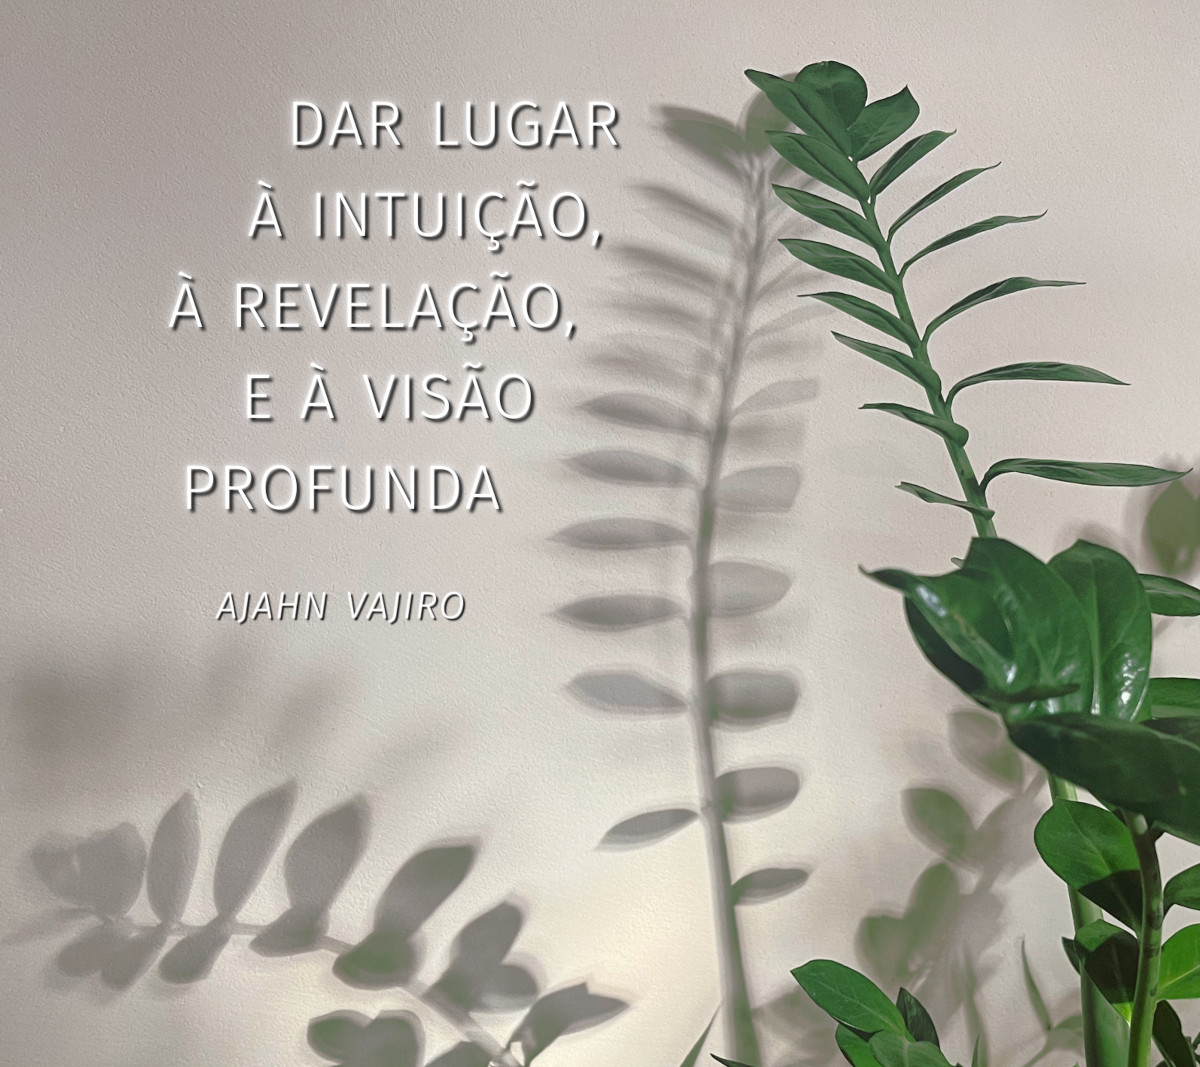
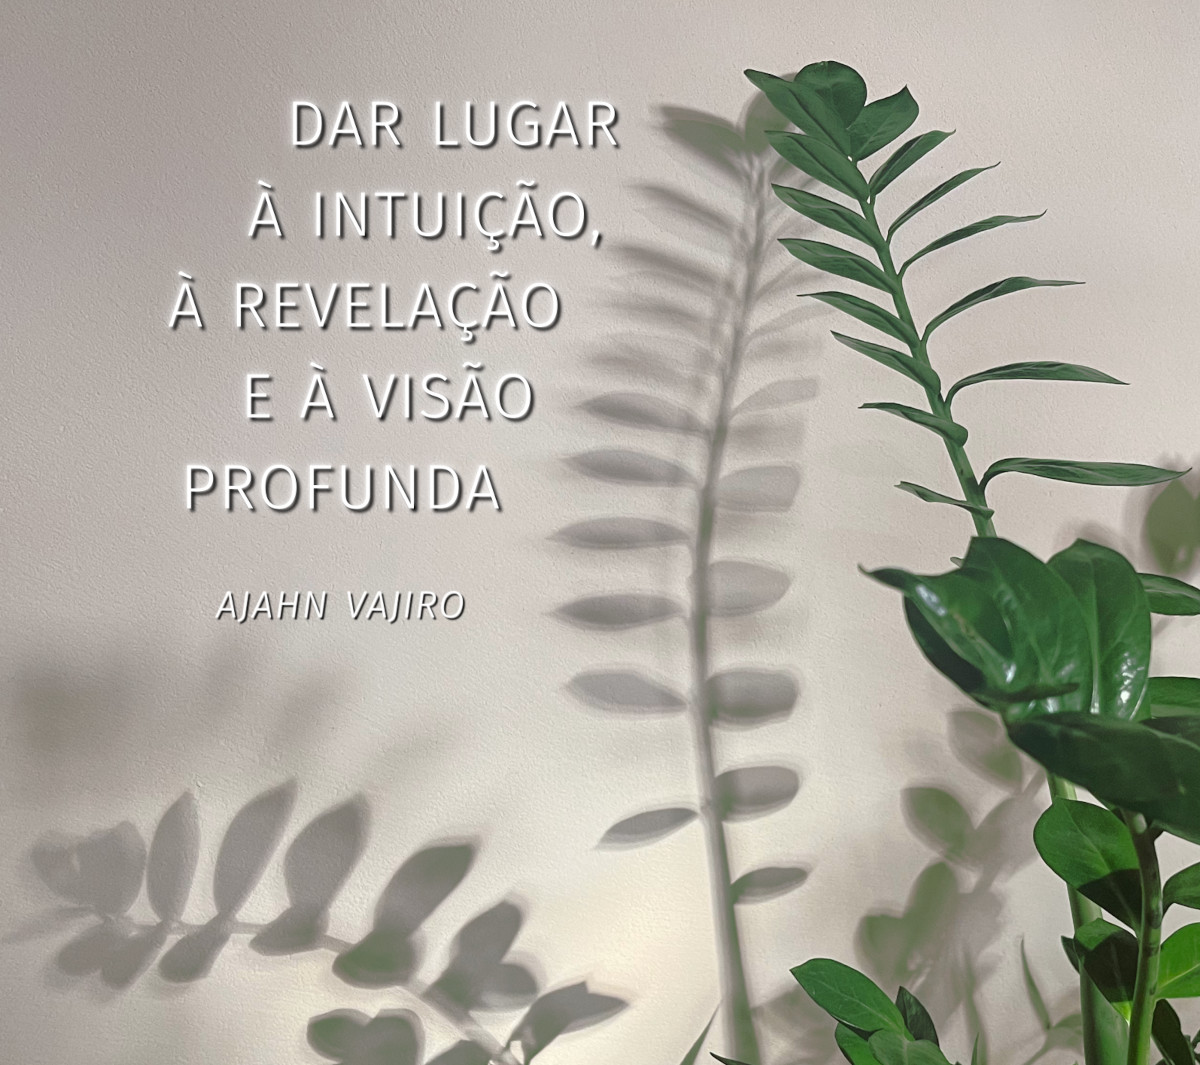
upd

diff --git a/manuscript/tex/allowing-intuition-pt.tex b/manuscript/tex/allowing-intuition-pt.tex
@@ -362,9 +362,9 @@ rejeição, raiva ou esmagados.
 \bigskip
 
 \emph{Pergunta}: Como é possível conseguir discernir se estou a dar lugar à
-intuição, à revelação, e à visão profunda, ou se, pelo contrário, estou
+intuição, à revelação e à visão profunda, ou se, pelo contrário, estou
 simplesmente a navegar pela vida ao meu sabor? Ou seja, quando é que sei que é
-uma inspiração e não uma manufaturação do «eu»?
+uma inspiração e não uma manufaturação do ``eu''?
 
 \emph{Ajahn Vajiro}: É complicado, não é? Mas momentos de visão profunda, e de
 experiências espirituais fortes, podem ser úteis e até transformadores. Portanto
@@ -422,7 +422,7 @@ a corpo. Não é fácil. E não vai ser o Ajahn Vajiro a dizer como fazê"-lo, p
 mais que possam pensar: ``Mas ele tem de o fazer. Eu inscrevi"-me nisto. Quero a
 minha revelação!''. Aquilo onde estou a tentar chegar é que esta noção do ``eu''
 está enredada no pensamento. Portanto, ``como é possível conseguir discernir se
-estou a dar lugar à intuição, à revelação, e à visão profunda, ou se, pelo
+estou a dar lugar à intuição, à revelação e à visão profunda, ou se, pelo
 contrário, estou simplesmente a navegar pela vida ao meu sabor? Ou seja, quando
 é que sei que é uma inspiração e não uma manufaturação do `eu'?'' Pensamentos
 como estes continuarão a girar, a entrelaçar"-se, a criar nós, a fervilhar e a